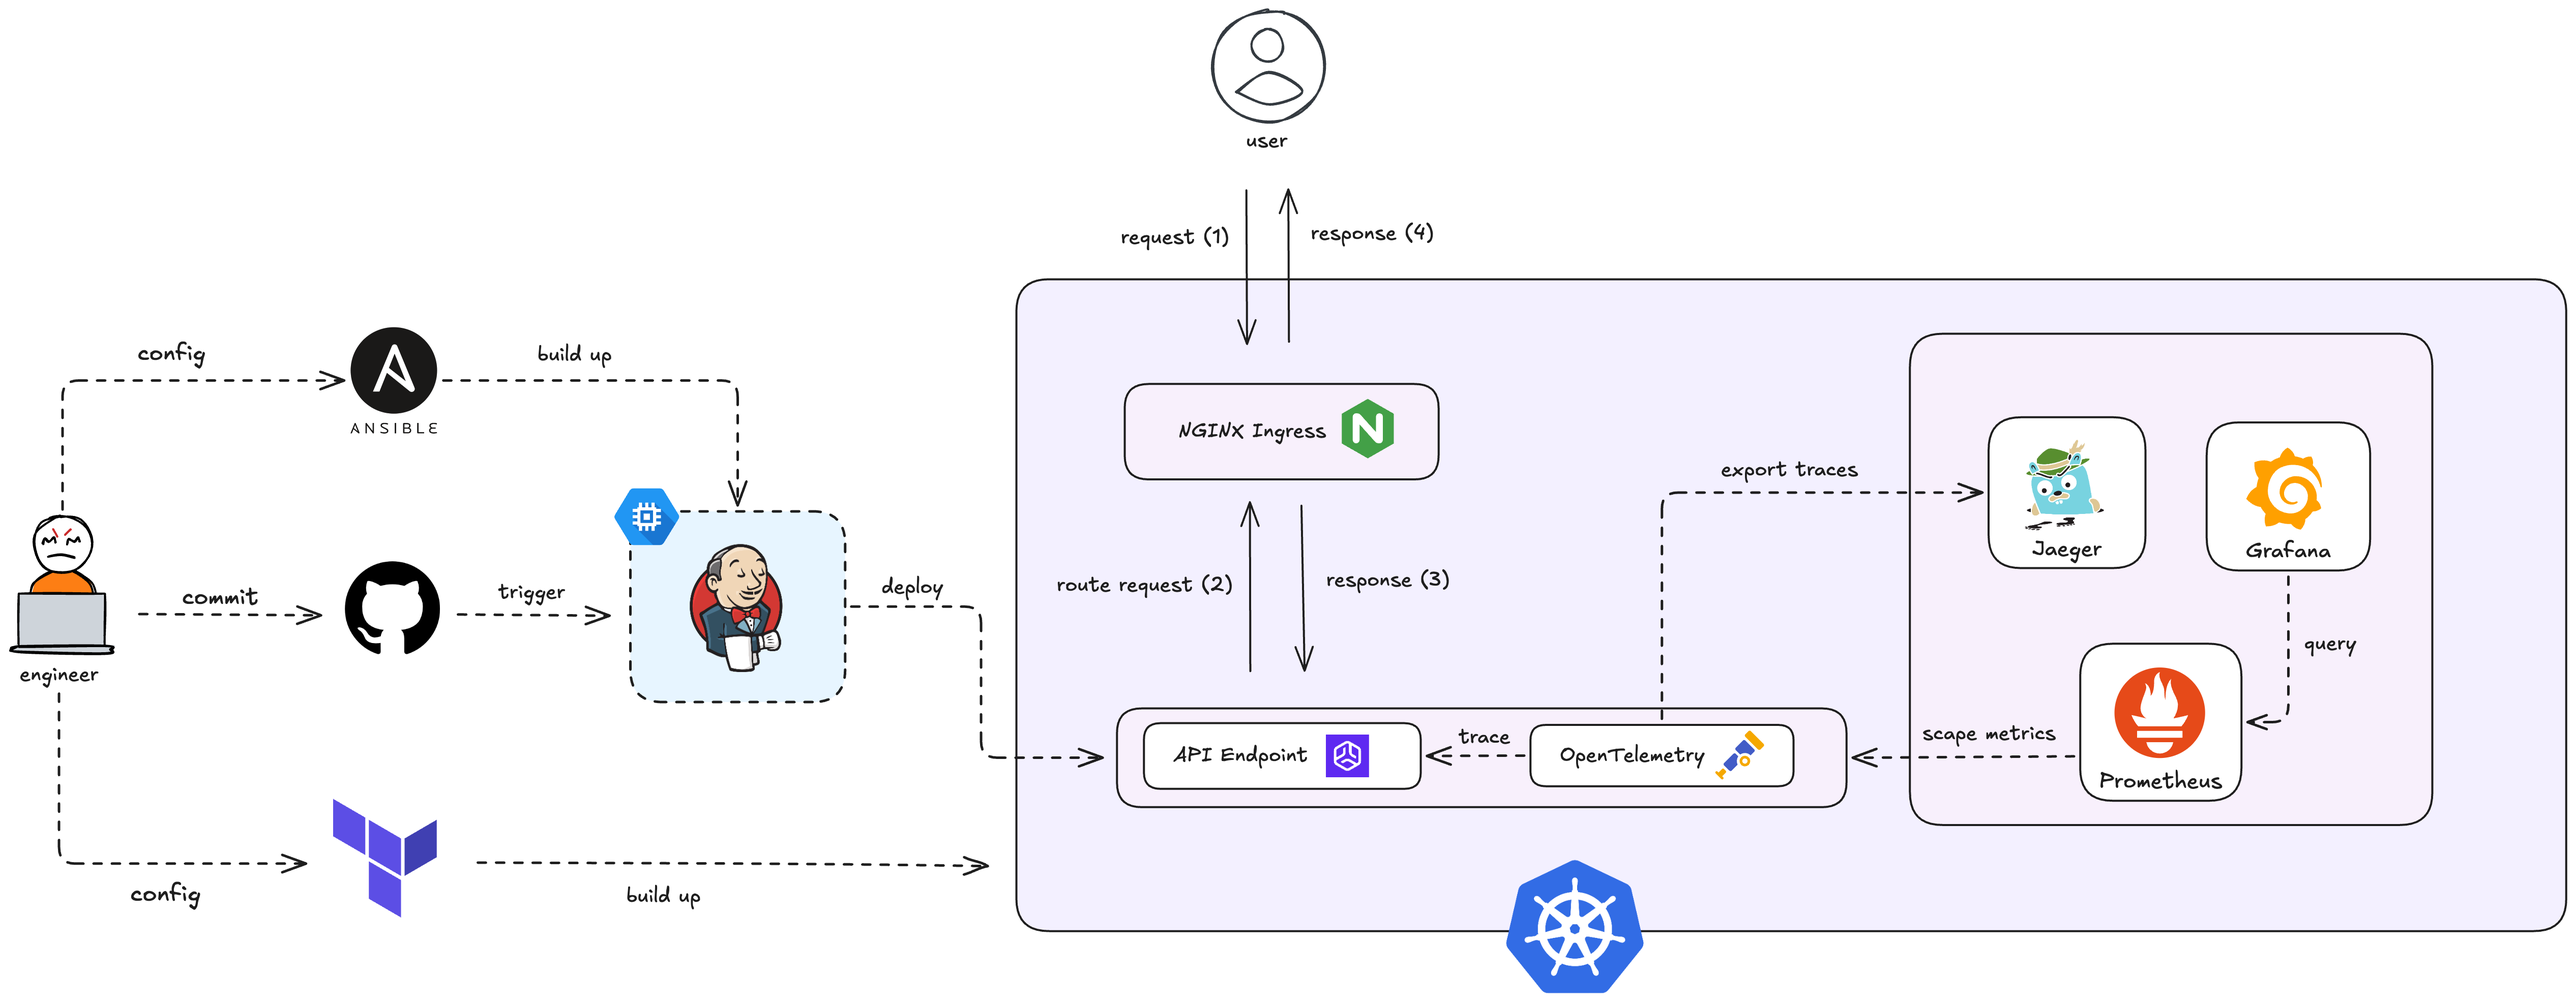
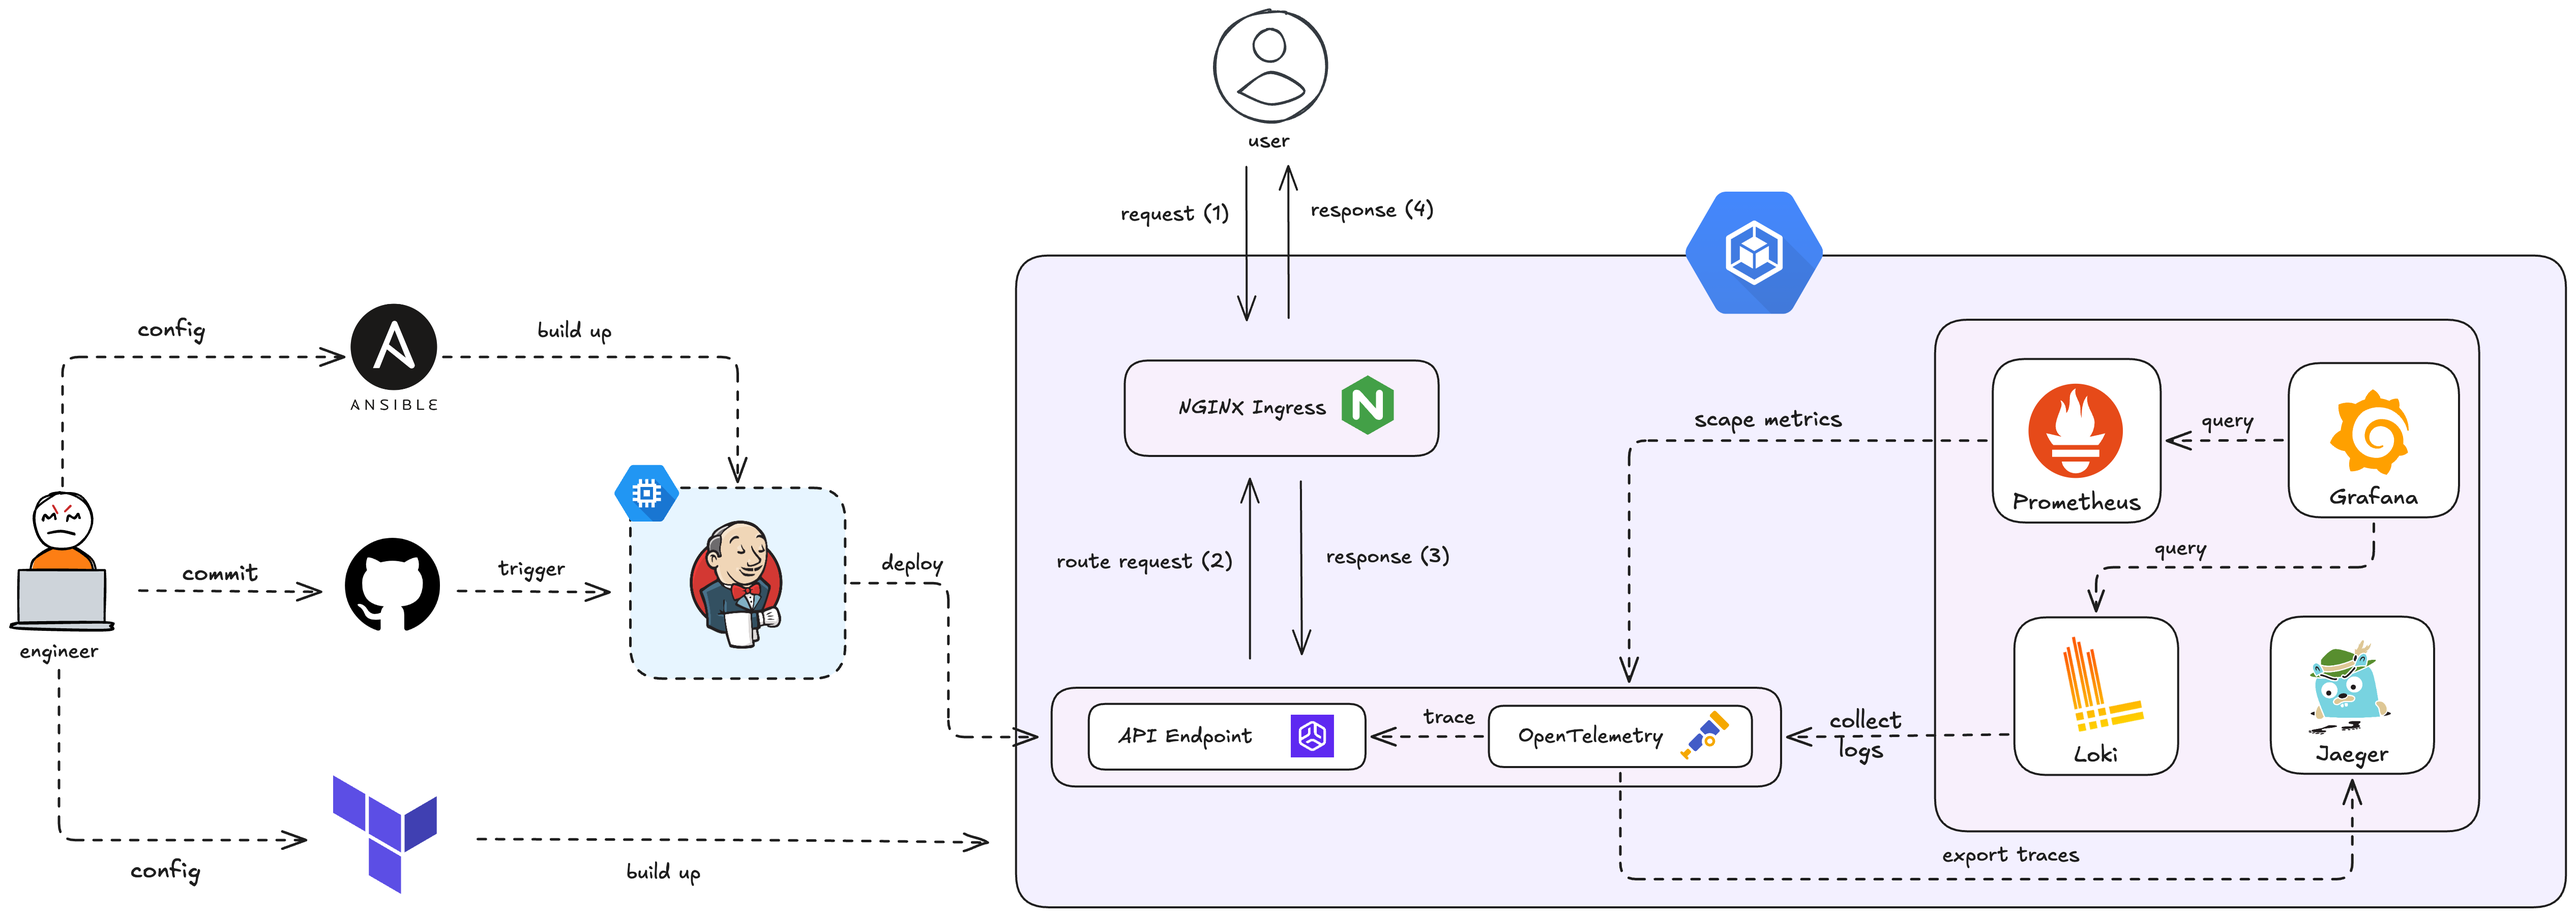
feat: add Loki log search, fix Jaeger endpoint, update architecture diagram

diff --git a/README.md b/README.md
@@ -255,6 +255,7 @@ kubectl get ingress -n image-editing   # get public IP
 # Add Helm repos
 helm repo add prometheus-community https://prometheus-community.github.io/helm-charts
 helm repo add jaegertracing https://jaegertracing.github.io/helm-charts
+helm repo add grafana https://grafana.github.io/helm-charts
 helm repo update
 
 # Prometheus + Grafana
@@ -262,15 +263,33 @@ helm install prometheus prometheus-community/kube-prometheus-stack \
   --namespace monitoring --create-namespace \
   --set grafana.service.type=LoadBalancer
 
-# Jaeger
+# Jaeger (distributed tracing)
 helm install jaeger jaegertracing/jaeger \
   --namespace monitoring
+
+# Loki + Promtail (log aggregation)
+helm install loki-stack grafana/loki-stack \
+  --namespace monitoring \
+  --set promtail.enabled=true \
+  --set loki.enabled=true \
+  --set grafana.enabled=false
 
 # Get Grafana external IP and password
 kubectl get svc prometheus-grafana -n monitoring
 kubectl --namespace monitoring get secret prometheus-grafana \
   -o jsonpath="{.data.admin-password}" | base64 -d && echo
 ```
+
+**Connect Loki to Grafana:**
+1. Grafana → **Configuration → Data Sources → Add data source → Loki**
+2. URL: `http://loki-stack.monitoring.svc.cluster.local:3100`
+3. Save & Test
+
+**Search logs in Grafana Explore:**
+- `{namespace="image-editing"}` — all API pod logs
+- `{namespace="image-editing"} |= "error"` — filter errors only
+- `{namespace="image-editing"} | json | status >= 500` — HTTP 5xx only
+
 
 ### 5.4 Provision Jenkins VM with Ansible
 
